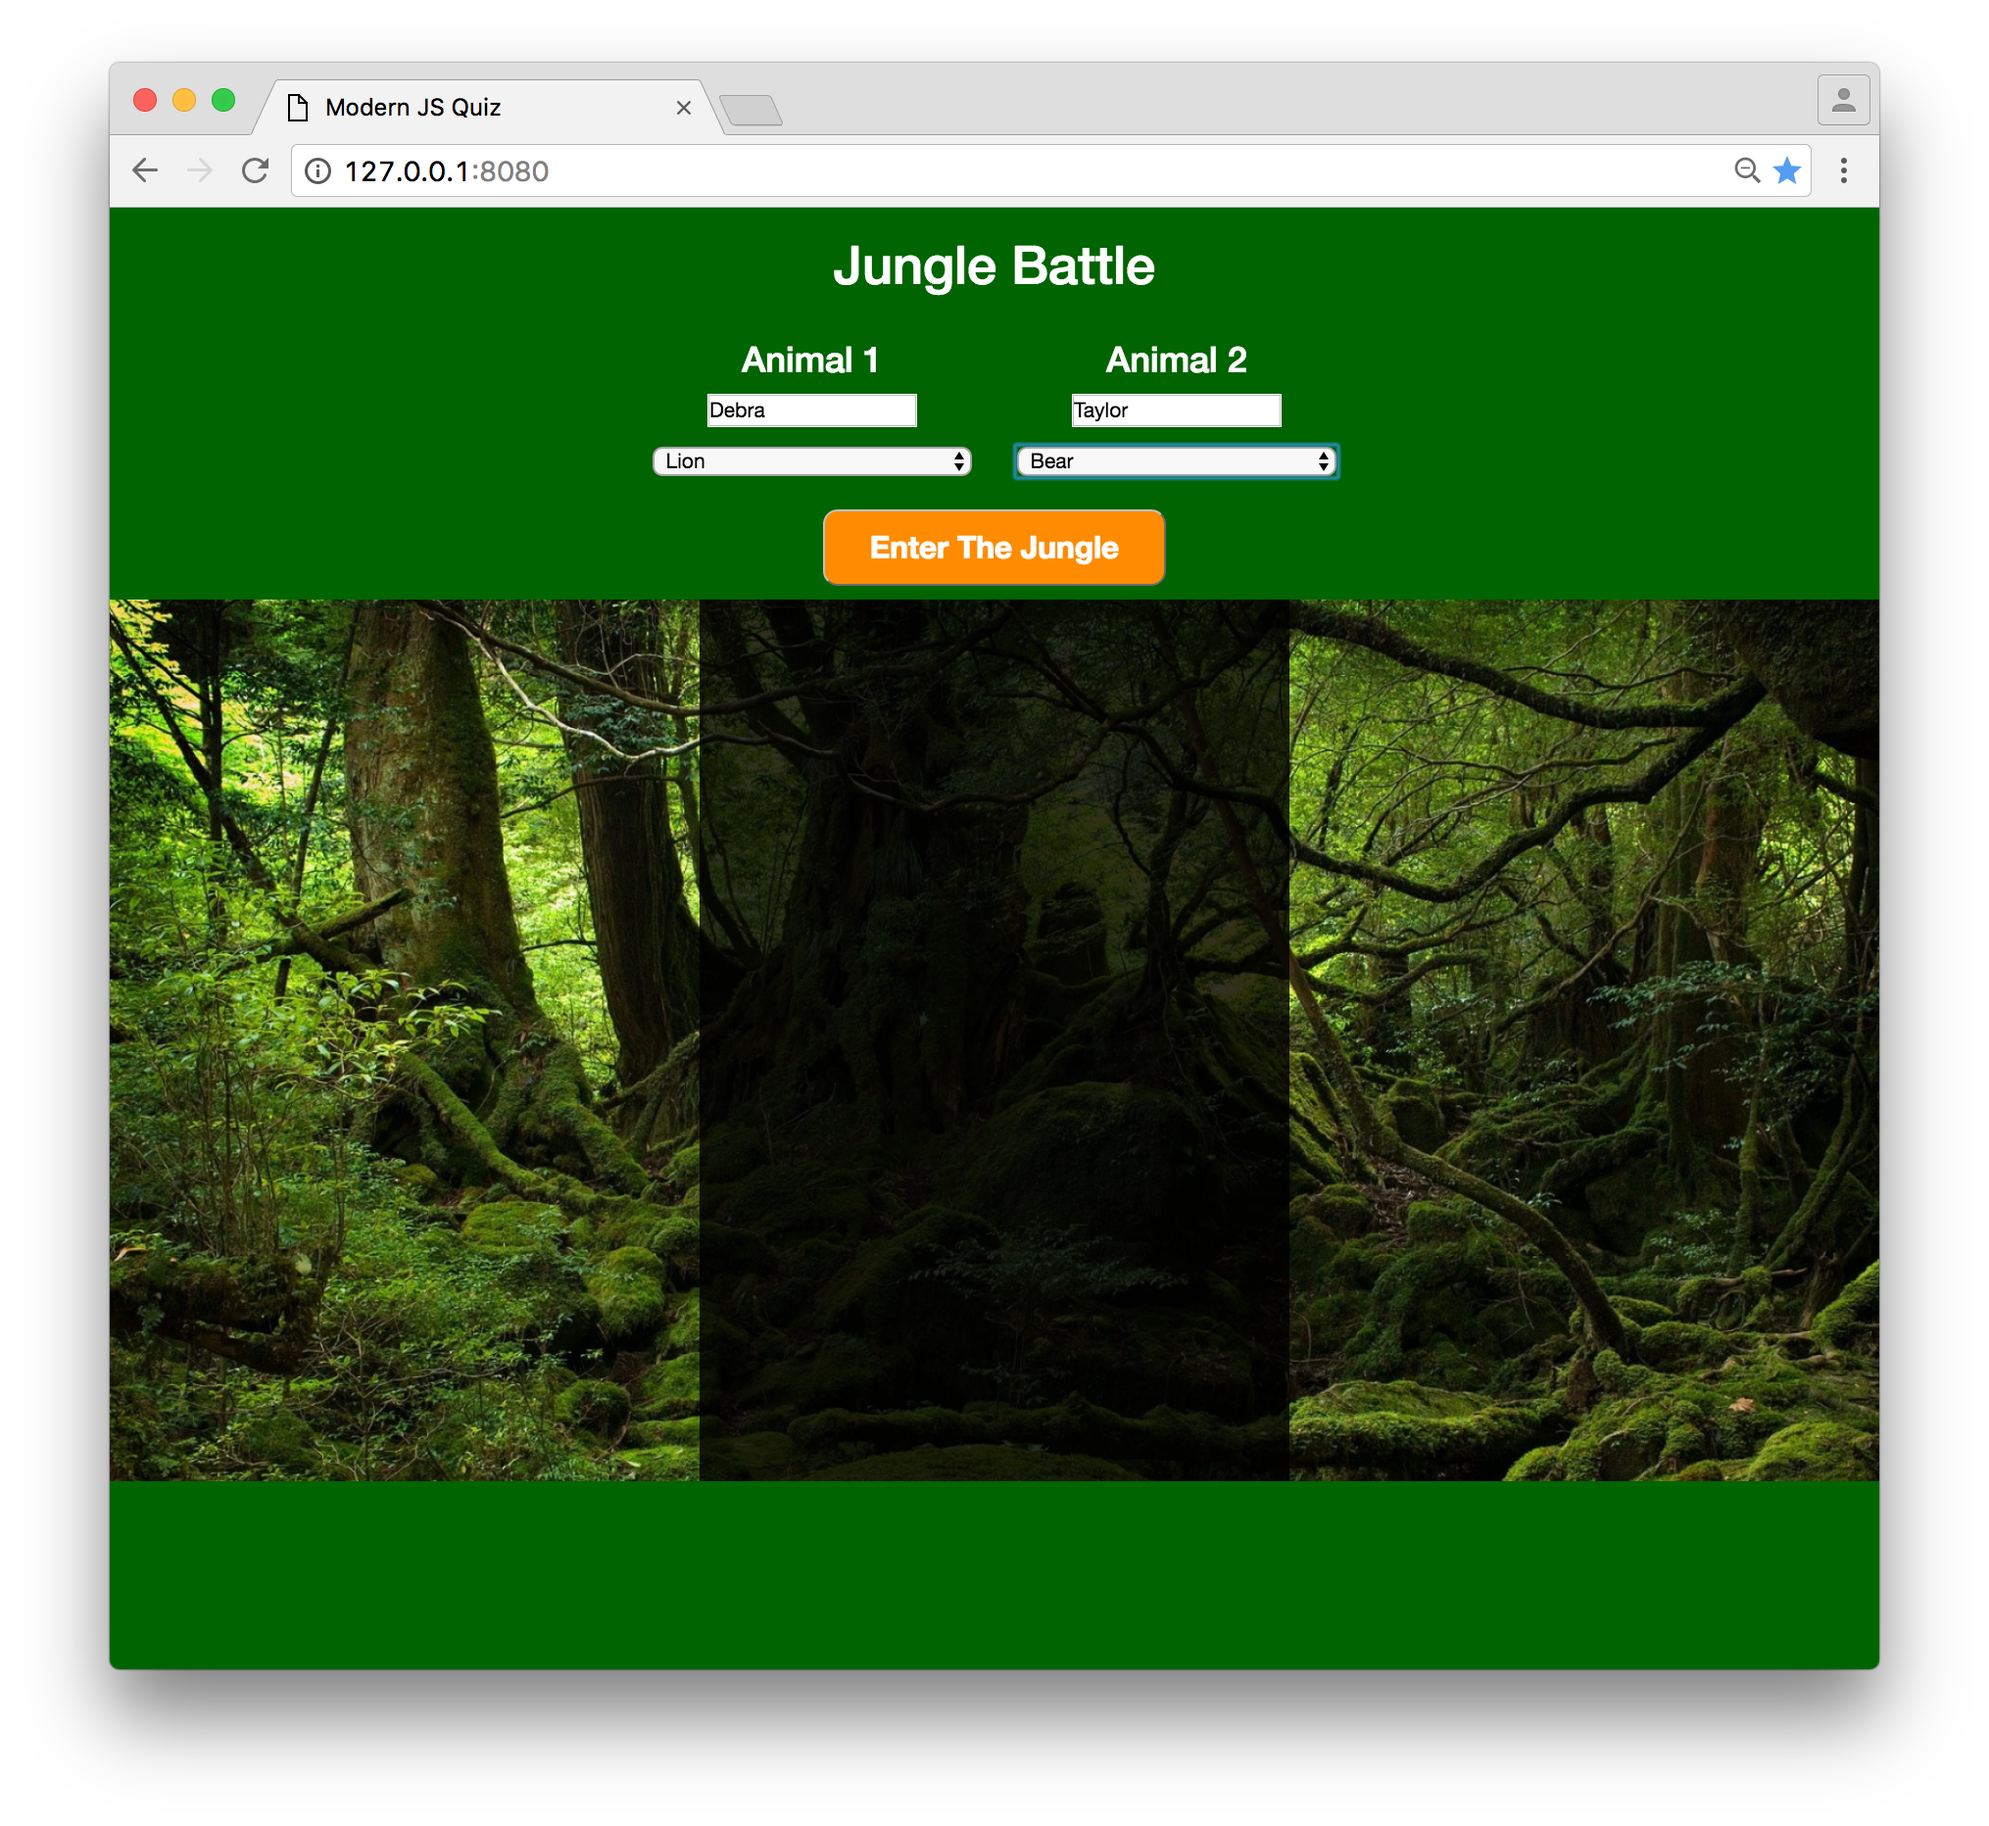
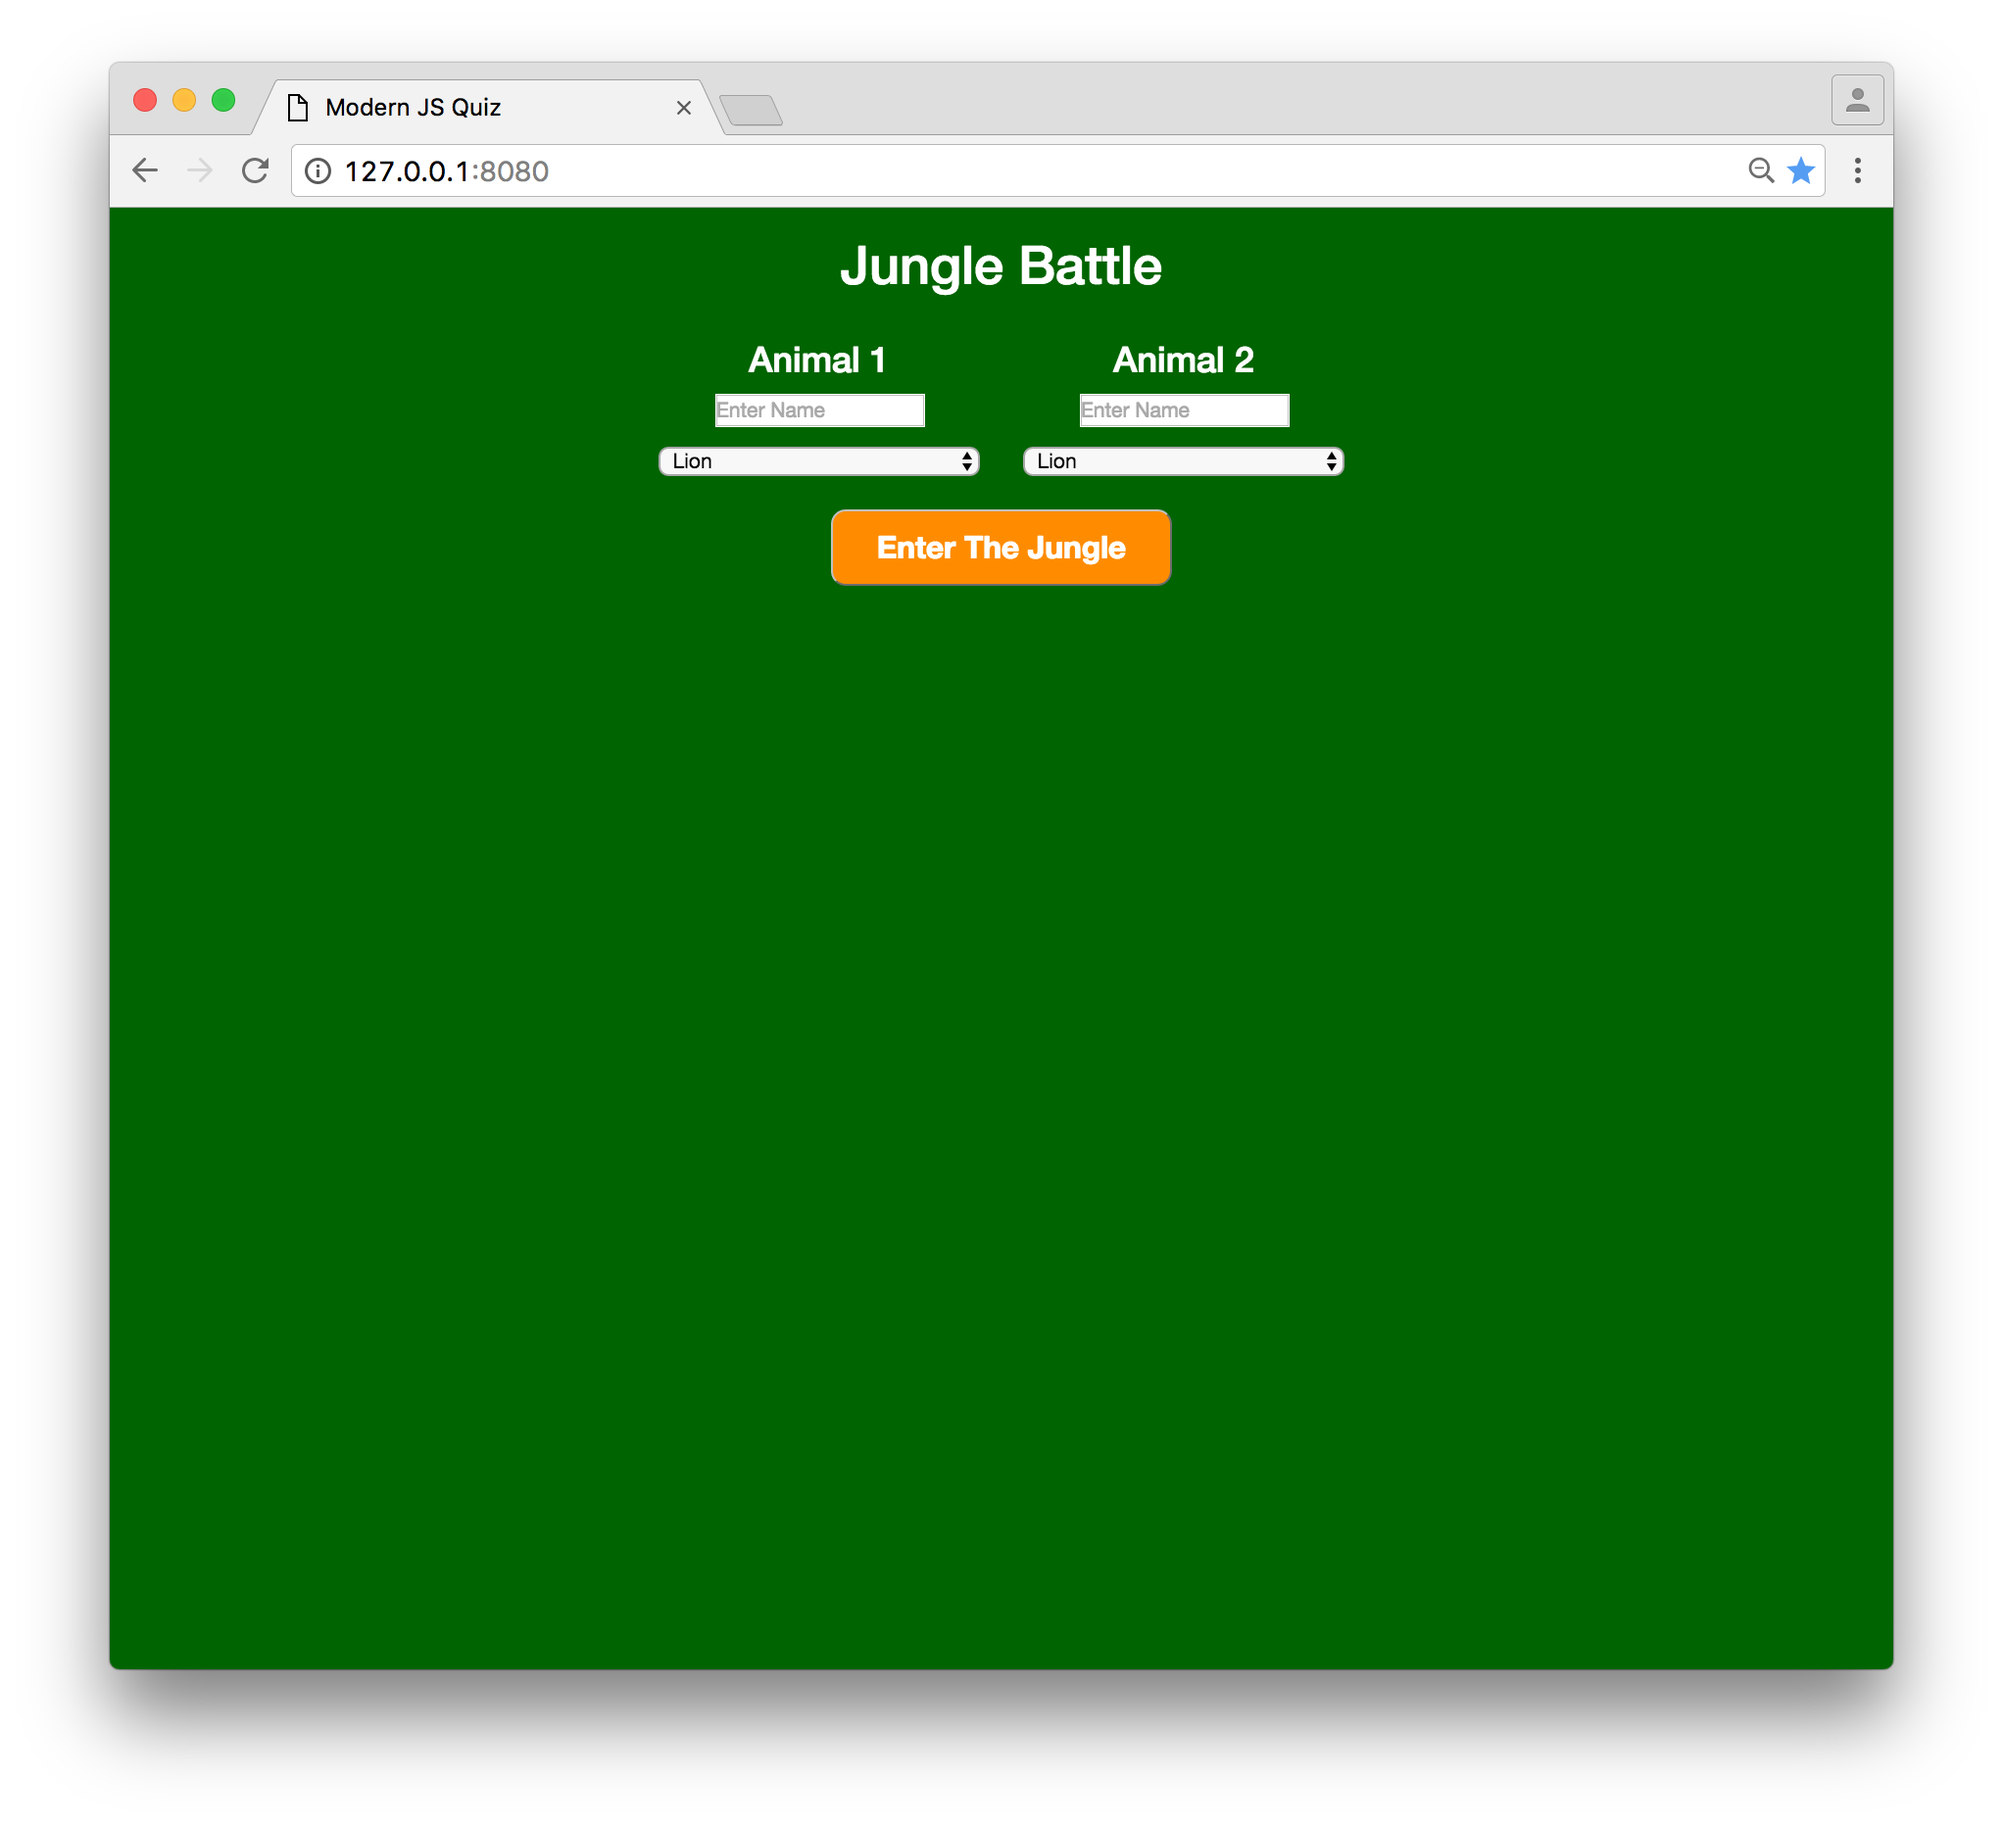
slight updates to UX

diff --git a/javascripts/app.js b/javascripts/app.js
@@ -7,6 +7,7 @@ let $enterButton = $("#enter-jungle-btn");
 let $attackButton = $("#attack-btn");
 let $rematchButton = $("#rematch-btn");
 let $playerInputArea = $("#user-input-wrapper");
+let $battleDiv = $("#jungle-bg");
 let $player1;
 let $player2;
 let $battleResults = $("#battle-results");
@@ -23,6 +24,7 @@ $enterButton.click(() => {
     $playerInputArea.addClass("hidden");   //hide player name inputs & animal selectors
     $enterButton.addClass("hidden");   //hide enter button
     $attackButton.removeClass("hidden"); //reveals the attack button
+    $battleDiv.removeClass("hidden"); //reveals the battleground
     player1 = Jungle.createPlayers($animalSelection1, "player1");//make the animal objects
     player2 = Jungle.createPlayers($animalSelection2, "player2");//make the animal objects
     Jungle.statUpdater(player1, player2, $player1, $player2);   //updates the inner html with the stats

diff --git a/index.html b/index.html
@@ -49,7 +49,7 @@
       <button type="" class="rematchButton hidden" id="rematch-btn" onClick="window.location.reload()">REMATCH</button>
     </div>
 
-    <div class="row jungle" id="jungle-bg">
+    <div class="row jungle hidden" id="jungle-bg">
       <div class="col-md-12 jungleMainImage">
         <div class="col-md-4 leftAnimal" id="animal-left">
         </div>
